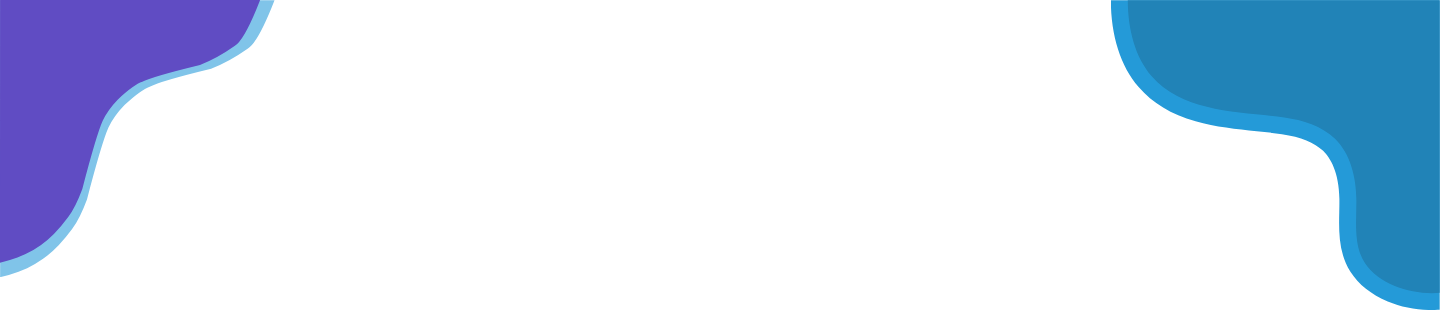
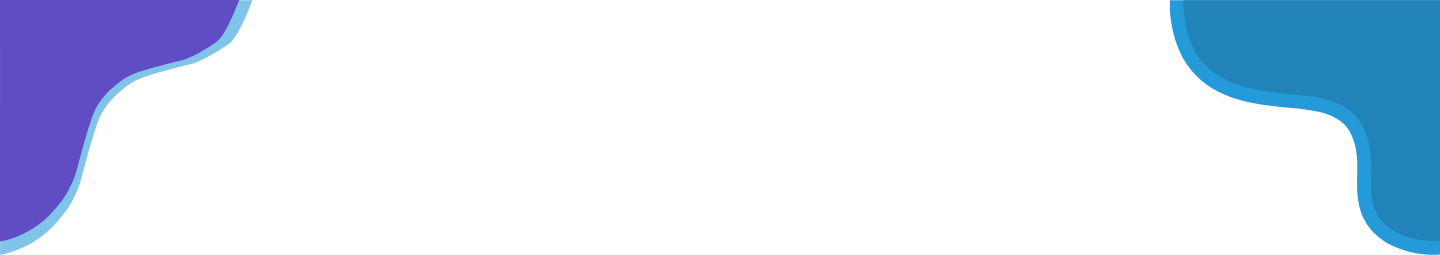
add section and img

diff --git a/app/views/home/index.php b/app/views/home/index.php
@@ -1,87 +1,109 @@
-<body>
-    
-<!-- navbar -->
-<nav class="navbar navbar-expand navbar-light bg-white topbar mb-4 static-top shadow">
+<body style="overflow-x : hidden;">
 
-<!-- Sidebar Toggle (Topbar) -->
-<button id="sidebarToggleTop" class="btn btn-link d-md-none rounded-circle mr-3">
-    <i class="fa fa-bars"></i>
-</button>
+    <!-- navbar -->
+    <nav class="navbar navbar-expand navbar-light bg-white topbar mb-4 static-top shadow">
 
-<!-- logo -->
- <img src="<?= BURL ?>/img/logo.png" alt="" width="50px">
+        <!-- Sidebar Toggle (Topbar) -->
+        <button id="sidebarToggleTop" class="btn btn-link d-md-none rounded-circle mr-3">
+            <i class="fa fa-bars"></i>
+        </button>
 
+        <!-- logo -->
+        <img src="<?= BURL ?>/img/logo.png" alt="" width="50px">
 
-<!-- Topbar Navbar -->
-<ul class="navbar-nav ml-auto">
+        <!-- Topbar Navbar -->
+        <ul class="navbar-nav ml-auto">
 
-    <!-- Nav Item - Search Dropdown (Visible Only XS) -->
-    <li class="nav-item dropdown no-arrow d-sm-none">
-        <a class="nav-link dropdown-toggle" href="#" id="searchDropdown" role="button"
-            data-toggle="dropdown" aria-haspopup="true" aria-expanded="false">
-            <i class="fas fa-search fa-fw"></i>
-        </a>
-        <!-- Dropdown - Messages -->
-        <div class="dropdown-menu dropdown-menu-right p-3 shadow animated--grow-in"
-            aria-labelledby="searchDropdown">
-            <form class="form-inline mr-auto w-100 navbar-search">
-                <div class="input-group">
-                    <input type="text" class="form-control bg-light border-0 small"
-                        placeholder="Search for..." aria-label="Search"
-                        aria-describedby="basic-addon2">
-                    <div class="input-group-append">
-                        <button class="btn btn-primary" type="button">
-                            <i class="fas fa-search fa-sm"></i>
-                        </button>
-                    </div>
+            <!-- Nav Item - Search Dropdown (Visible Only XS) -->
+            <li class="nav-item dropdown no-arrow d-sm-none">
+                <a class="nav-link dropdown-toggle" href="#" id="searchDropdown" role="button" data-toggle="dropdown"
+                    aria-haspopup="true" aria-expanded="false">
+                    <i class="fas fa-search fa-fw"></i>
+                </a>
+                <!-- Dropdown - Messages -->
+                <div class="dropdown-menu dropdown-menu-right p-3 shadow animated--grow-in"
+                    aria-labelledby="searchDropdown">
+                    <form class="form-inline mr-auto w-100 navbar-search">
+                        <div class="input-group">
+                            <input type="text" class="form-control bg-light border-0 small" placeholder="Search for..."
+                                aria-label="Search" aria-describedby="basic-addon2">
+                            <div class="input-group-append">
+                                <button class="btn btn-primary" type="button">
+                                    <i class="fas fa-search fa-sm"></i>
+                                </button>
+                            </div>
+                        </div>
+                    </form>
                 </div>
-            </form>
-        </div>
-    </li>
+            </li>
 
-   
+            <li class="nav-item dropdown no-arrow mx-1">
+                <a class="nav-link" href="#" id="messagesDropdown">
+                    test
+                </a>
+            </li>
 
-    
-    <li class="nav-item dropdown no-arrow mx-1">
-        <a class="nav-link" href="#" id="messagesDropdown" >
-            test
-        </a>
-    </li>
+            <li class="nav-item dropdown no-arrow mx-1">
+                <a class="nav-link" href="#" id="messagesDropdown">
+                    test
+                </a>
+            </li>
 
-    <li class="nav-item dropdown no-arrow mx-1">
-        <a class="nav-link" href="#" id="messagesDropdown" >
-            test
-        </a>
-    </li>
+            <div class="topbar-divider d-none d-sm-block"></div>
 
-    <div class="topbar-divider d-none d-sm-block"></div>
+            <!-- Nav Item - User Information -->
+            <li class="nav-item dropdown no-arrow">
+                <a class="nav-link dropdown-toggle" href="#" id="userDropdown" role="button" data-toggle="dropdown"
+                    aria-haspopup="true" aria-expanded="false">
+                    <button class="btn btn-primary">Login</button>
+                </a>
 
-    <!-- Nav Item - User Information -->
-    <li class="nav-item dropdown no-arrow">
-        <a class="nav-link dropdown-toggle" href="#" id="userDropdown" role="button"
-            data-toggle="dropdown" aria-haspopup="true" aria-expanded="false">
-            <button class="btn btn-primary">Login</button>
-        </a>
-        
-    </li>
+            </li>
 
-</ul>
-</nav>
+        </ul>
+    </nav>
+    <!-- End of Top Navbar -->
 
-<!-- main -->
- <section style="margin : -24px;">
-    <div class="position-relative h-100">
-        <img class="position-absolute top-0 z-0" src="<?= BURL ?>/img/bordertop.png" alt="" width="100%" height="400px">
-        <div class="position-absolute z-1 d-flex justify-content-between flex-row w-100 h-100" style="margin-top : 20rem">
-            <div style="margin-top : 6rem; margin-left : 10rem; font-size: 42px;" class="main-text">
-                <p class="text-dark">Learn One Thing on Many Ways</p>
-                <p class="text-dark">'cause</p>
-                <p class="text-primary"><strong>"You don't understand anything until you learn it more than one way"</strong></p>
-                <p class="text-primary">-Marvin Minsky</p>
+    <!-- main -->
+    <section class="vh-100" style="margin : -24px;">
+        <div class="position-relative h-100">
+            <img class="position-absolute top-0 z-0 w-100" src="<?= BURL ?>/img/bordertop.png" alt="" height="400px">
+            
+            <div class=" z-1 d-flex justify-content-between flex-row w-100" style="padding-top: 12rem;">
+                <div style="margin-top : 6rem; margin-left : 10rem; font-size: 42px;" class="main-text">
+                    <p class="text-dark">Learn One Thing on Many Ways</p>
+                    <p class="text-dark">'cause</p>
+                    <p class="text-primary"><strong>"You don't understand anything until you learn it more than one
+                            way"</strong></p>
+                    <p class="text-primary">-Marvin Minsky</p>
+                </div>
+                <img style="width : 791px; height : 487px; margin-right : 50px" src="<?= BURL ?>/img/maingraphic.png"
+                    alt="">
             </div>
-            <img style="width : 791px; height : 487px; margin-right : 50px"src="<?= BURL ?>/img/maingraphic.png" alt="">
         </div>
-    </div>
- </section>
-<!-- end of main -->
+    </section>
+    <section class="vh-100" style="margin-top : 10rem;">
+        <div class="position-relative h-100">
+            
+            <div class=" z-1 d-flex justify-content-center align-items-end flex-row w-100 h-100" style="">
+                <div style="" class="main-text text-center">
+                    <p class="text-dark" style="font-size: 54px;">To reach the Top all you need to do is take a step</p>
+                    <p class="text-primary" style="font-size: 38px;">“There is no an instant way to the top, but there is a way... and more ways. So, take your step and move to the Top.”</p>
+                    <img class="" style="width : 741px; height : 437px; margin-top:10rem;" src="<?= BURL ?>/img/botgraphic.png" alt="">
+                </div>
+            </div>
+        </div>
+        <img style="position: absolute; bottom: 0; z-index: 0;" src="<?= BURL ?>/img/borderbot.png" alt="" width="100%" height="400px">
+    </section>
+    <!-- end of main -->
+
+    <!-- Footer -->
+    <footer class="position-relative bg-white d-flex justify-content-end">
+        <div class="container my-auto">
+            <div class="copyright text-center my-auto">
+                <span>Copyright &copy; Your Website 2021</span>
+            </div>
+        </div>
+    </footer>
+    <!-- End of Footer -->
 </body>
